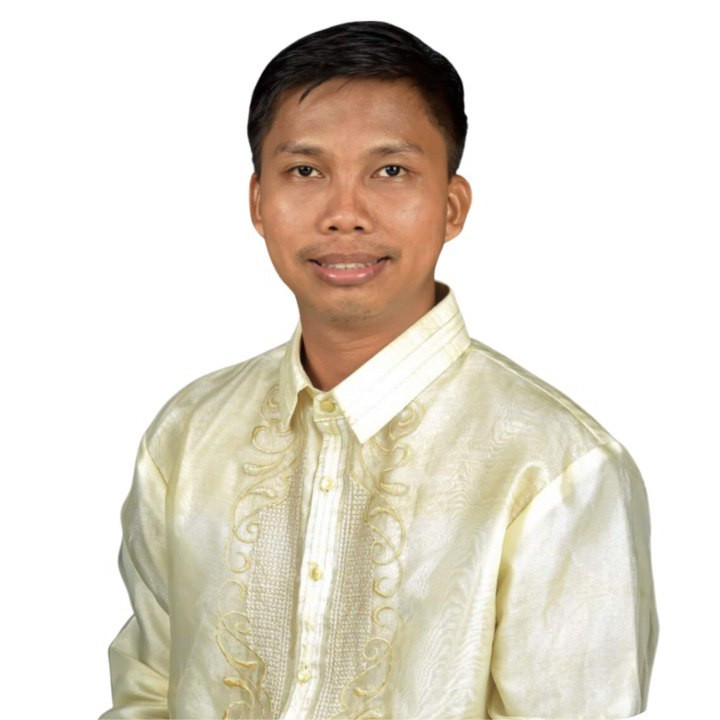
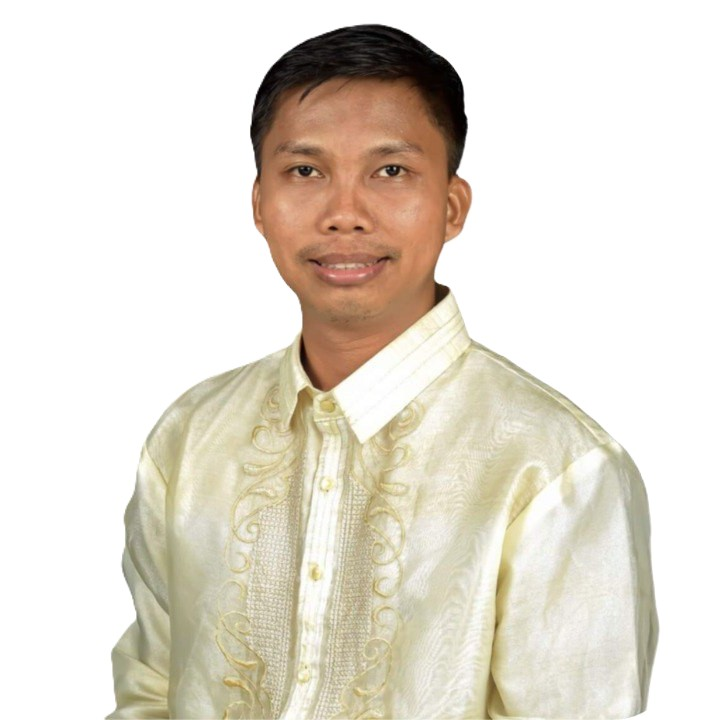
Refactor code structure for improved readability and maintainability

diff --git a/resources/js/components/header.tsx b/resources/js/components/header.tsx
@@ -71,6 +71,8 @@ export default function Header() {
         };
     }, [isSuggestionsVisible]);
 
+    
+    
     useEffect(() => {
         if (mobileMenuOpen) {
             document.body.style.overflow = 'hidden';
@@ -133,6 +135,7 @@ export default function Header() {
         resetSearchState();
     };
 
+    
     const resetSearchState = () => {
         setSearchQuery('');
         setSuggestions([]);
@@ -172,11 +175,10 @@ export default function Header() {
 
     if (isLoading) {
         return (
-            <div className="fixed top-0 left-0 right-0 z-40 bg-white dark:bg-gray-950 h-[52px]">
-                <div className="max-w-7xl mx-auto h-full flex items-center justify-between px-3 sm:px-4 md:px-6 lg:px-8">
-                    <div className="flex items-center space-x-2">
-                        <div className="h-8 w-8 rounded-lg bg-gray-100 dark:bg-gray-900 animate-pulse"></div>
-                        <div className="h-5 w-24 bg-gray-100 dark:bg-gray-900 rounded-md animate-pulse"></div>
+            <div className="fixed top-0 left-0 right-0 z-40 bg-white dark:bg-gray-950 h-[52px]">                <div className="max-w-7xl mx-auto h-full flex items-center justify-between px-3 sm:px-4 md:px-6 lg:px-8">
+                    <div className="flex items-center space-x-3">
+                        <div className="h-8 w-8 sm:h-10 sm:w-10 rounded-xl bg-gray-100 dark:bg-gray-900 animate-pulse"></div>
+                        <div className="h-6 w-28 bg-gray-100 dark:bg-gray-900 rounded-md animate-pulse"></div>
                     </div>
                     <div className="hidden lg:flex items-center justify-center flex-grow">
                         <div className="flex items-center space-x-1">
@@ -195,29 +197,25 @@ export default function Header() {
     }
 
     return (
-        <>
-            <header
+        <>            <header
                 className={`fixed top-0 left-0 right-0 z-40 w-full transition-all duration-200
                     ${scrolled
-                        ? "bg-white/80 dark:bg-gray-950/80 backdrop-blur-sm shadow-sm"
+                        ? "bg-white/80 dark:bg-gray-950/80 backdrop-blur-sm shadow-md"
                         : "bg-white dark:bg-gray-950"}`}
-            >
-                <div className="max-w-7xl mx-auto flex items-center justify-between px-3 sm:px-4 md:px-6 lg:px-8 h-[52px]">
+            ><div className="max-w-7xl mx-auto flex items-center justify-between px-3 sm:px-4 md:px-6 lg:px-8 h-[52px]">
                     <Link
                         href={route('home')}
-                        className="flex items-center space-x-2 group flex-shrink-0"
+                        className="flex items-center space-x-3 group flex-shrink-0"
                         aria-label="ProcuChain Home"
                     >
-                        <div className="h-8 w-8 rounded-lg overflow-hidden transform transition-transform duration-200 group-hover:scale-105">
+                        <div className="h-8 w-8 sm:h-10 sm:w-10 rounded-xl overflow-hidden transform transition-transform duration-200 group-hover:scale-105">
                             <AppLogoIcon className="w-full h-full object-cover" />
                         </div>
-                        <span className="font-medium text-base text-gray-900 dark:text-white">
+                        <span className="font-medium text-lg sm:text-xl text-gray-900 dark:text-white">
                             ProcuChain
                         </span>
-                    </Link>
-
-                    <nav className="hidden lg:flex items-center justify-center flex-grow" role="navigation" aria-label="Main navigation">
-                        <div className="flex items-center space-x-1">
+                    </Link>                    <nav className="hidden lg:flex items-center justify-center flex-grow" role="navigation" aria-label="Main navigation">
+                        <div className="flex items-center space-x-6 md:space-x-8">
                             <NavLink href={route('home')} active={route().current('home')}>Home</NavLink>
                             <NavLink href={route('about')} active={route().current('about')}>About</NavLink>
                             <NavLink href={route('team')} active={route().current('team')}>Team</NavLink>
@@ -292,12 +290,10 @@ export default function Header() {
                                     </ul>
                                 </div>
                             )}
-                        </div>
-
-                        {/* Theme Toggle */}
+                        </div>                        {/* Theme Toggle */}
                         <button
                             onClick={toggleDarkMode}
-                            className="hidden md:flex p-1.5 rounded-md text-gray-600 dark:text-gray-300 hover:bg-gray-100 dark:hover:bg-gray-900
+                            className="hidden md:flex p-1.5 rounded-md text-gray-600 dark:text-gray-400 hover:bg-gray-100 dark:hover:bg-gray-900
                                 focus:outline-none focus:ring-1 focus:ring-gray-400 transition-colors duration-200"
                             aria-label={isDarkMode ? 'Switch to light mode' : 'Switch to dark mode'}
                         >
@@ -305,47 +301,41 @@ export default function Header() {
                         </button>
 
                         {/* Auth Buttons */}
-                        <div className="hidden lg:flex items-center space-x-2">
-                            {auth.user ? (
+                        <div className="hidden lg:flex items-center space-x-2">                            {auth.user ? (
                                 <Link
                                     href={getDashboardRouteByRole(auth.user.role)}
                                     className="px-3 py-1.5 rounded-md text-sm font-medium text-white
-                                        bg-gray-900 hover:bg-gray-800 dark:bg-gray-900 dark:hover:bg-gray-800
+                                        bg-gray-900 hover:bg-gray-800 dark:bg-gray-800 dark:hover:bg-gray-700
                                         focus:outline-none focus:ring-1 focus:ring-gray-400
                                         transition-colors duration-200"
                                 >
                                     Dashboard
-                                </Link>
-                            ) : (
+                                </Link>) : (
                                 <Link
                                     href={route('login')}
                                     className="px-3 py-1.5 rounded-md text-sm font-medium text-white
-                                        bg-gray-900 hover:bg-gray-800 dark:bg-gray-900 dark:hover:bg-gray-800
+                                        bg-gray-900 hover:bg-gray-800 dark:bg-gray-800 dark:hover:bg-gray-700
                                         focus:outline-none focus:ring-1 focus:ring-gray-400
                                         transition-colors duration-200"
                                 >
                                     Sign In
                                 </Link>
                             )}
-                        </div>
-
-                        {/* Mobile Search Button */}
+                        </div>                        {/* Mobile Search Button */}
                         <button
                             onClick={() => {
                                 setIsMobileSearchExpanded(true);
                                 setTimeout(() => mobileSearchInputRef.current?.focus(), 100);
                             }}
-                            className="lg:hidden p-1.5 rounded-md text-gray-600 dark:text-gray-300 hover:bg-gray-100 dark:hover:bg-gray-900
+                            className="lg:hidden p-1.5 rounded-md text-gray-600 dark:text-gray-400 hover:bg-gray-100 dark:hover:bg-gray-900
                                 focus:outline-none focus:ring-1 focus:ring-gray-400"
                             aria-label="Open search"
                         >
                             <Search className="w-4 h-4" />
-                        </button>
-
-                        {/* Mobile Menu Button */}
+                        </button>{/* Mobile Menu Button */}
                         <button
                             onClick={() => setMobileMenuOpen(!mobileMenuOpen)}
-                            className="lg:hidden p-1.5 rounded-md text-gray-600 dark:text-gray-300 hover:bg-gray-100 dark:hover:bg-gray-900
+                            className="lg:hidden p-1.5 rounded-md text-gray-600 dark:text-gray-400 hover:bg-gray-100 dark:hover:bg-gray-900
                                 focus:outline-none focus:ring-1 focus:ring-gray-400"
                             aria-label={mobileMenuOpen ? 'Close menu' : 'Open menu'}
                             aria-expanded={mobileMenuOpen}
@@ -436,38 +426,33 @@ export default function Header() {
                         ${mobileMenuOpen ? 'translate-x-0' : 'translate-x-full'}`}
                     style={{ backgroundColor: 'var(--background, #ffffff)' }}
                 >
-                    <div className="flex items-center justify-between p-3 sm:p-4 md:p-6 lg:p-8 border-b border-gray-100 dark:border-gray-900">
-                        <Link
+                    <div className="flex items-center justify-between p-3 sm:p-4 md:p-6 lg:p-8 border-b border-gray-100 dark:border-gray-900">                        <Link
                             href={route('home')}
-                            className="flex items-center space-x-2"
+                            className="flex items-center space-x-3"
                             onClick={resetSearchState}
                         >
-                            <div className="h-8 w-8 sm:h-9 sm:w-9 rounded-lg overflow-hidden">
+                            <div className="h-8 w-8 sm:h-10 sm:w-10 rounded-xl overflow-hidden">
                                 <AppLogoIcon className="w-full h-full object-cover" />
                             </div>
-                            <span className="font-medium text-base sm:text-lg text-gray-900 dark:text-white">
+                            <span className="font-medium text-lg sm:text-xl text-gray-900 dark:text-white">
                                 ProcuChain
                             </span>
                         </Link>
-                        <div className="flex items-center space-x-2">
-                            <button
+                        <div className="flex items-center space-x-2">                            <button
                                 onClick={toggleDarkMode}
-                                className="p-1.5 sm:p-2 rounded-lg text-gray-700 dark:text-gray-300 hover:bg-gray-100 dark:hover:bg-gray-900"
+                                className="p-1.5 sm:p-2 rounded-lg text-gray-700 dark:text-gray-400 hover:bg-gray-100 dark:hover:bg-gray-900"
                                 aria-label={isDarkMode ? 'Switch to light mode' : 'Switch to dark mode'}
                             >
                                 {isDarkMode ? <Sun className="w-4 h-4 sm:w-5 sm:h-5" /> : <Moon className="w-4 h-4 sm:w-5 sm:h-5" />}
-                            </button>
-                            <button
+                            </button>                            <button
                                 onClick={() => setMobileMenuOpen(false)}
-                                className="p-1.5 sm:p-2 rounded-lg text-gray-700 dark:text-gray-300 hover:bg-gray-100 dark:hover:bg-gray-900"
+                                className="p-1.5 sm:p-2 rounded-lg text-gray-700 dark:text-gray-400 hover:bg-gray-100 dark:hover:bg-gray-900"
                                 aria-label="Close menu"
                             >
                                 <X size={18} />
                             </button>
                         </div>
-                    </div>
-
-                    <nav className="space-y-1 mt-4 px-3 sm:px-4 md:px-6 lg:px-8" role="navigation" aria-label="Mobile navigation">
+                    </div>                    <nav className="space-y-4 mt-6 px-3 sm:px-4 md:px-6 lg:px-8" role="navigation" aria-label="Mobile navigation">
                         <MobileNavLink href={route('home')} active={route().current('home')} onClick={resetSearchState}>Home</MobileNavLink>
                         <MobileNavLink href={route('about')} active={route().current('about')} onClick={resetSearchState}>About</MobileNavLink>
                         <MobileNavLink href={route('team')} active={route().current('team')} onClick={resetSearchState}>Team</MobileNavLink>
@@ -475,23 +460,21 @@ export default function Header() {
                     </nav>
 
                     <div className="mt-6 sm:mt-8 px-3 sm:px-4 md:px-6 lg:px-8">
-                        {auth.user ? (
-                            <Link
+                        {auth.user ? (                            <Link
                                 href={getDashboardRouteByRole(auth.user.role)}
                                 onClick={resetSearchState}
                                 className="block w-full py-2.5 sm:py-3 text-center font-medium text-white
-                                    bg-gray-900 hover:bg-gray-800 dark:bg-gray-900 dark:hover:bg-gray-800 rounded-md
+                                    bg-gray-900 hover:bg-gray-800 dark:bg-gray-800 dark:hover:bg-gray-700 rounded-md
                                     focus:outline-none focus:ring-1 focus:ring-gray-400
                                     transition-colors duration-200"
                             >
                                 Dashboard
                             </Link>
-                        ) : (
-                            <Link
+                        ) : (                            <Link
                                 href={route('login')}
                                 onClick={resetSearchState}
-                                className="block w-full py-2.5 sm:py-3 text-center font-medium
-                                    text-gray-700 dark:text-gray-300 hover:bg-gray-100 dark:hover:bg-gray-900 rounded-md
+                                className="block w-full py-2.5 sm:py-3 text-center font-medium 
+                                    text-white bg-gray-900 hover:bg-gray-800 dark:bg-gray-800 dark:hover:bg-gray-700 rounded-md
                                     focus:outline-none focus:ring-1 focus:ring-gray-400
                                     transition-colors duration-200"
                             >
@@ -514,14 +497,14 @@ interface NavLinkProps {
     children: React.ReactNode;
 }
 
-function NavLink({ href, active, children }: NavLinkProps) {
+function NavLink({ href, active, children }: NavLinkProps) {    
     return (
         <Link
             href={href}
-            className={`px-3 py-1.5 rounded-md text-sm font-medium transition-colors duration-200
+            className={`text-sm font-medium transition-colors duration-200
                 ${active
-                    ? 'text-gray-900 dark:text-white bg-gray-50 dark:bg-gray-900/50'
-                    : 'text-gray-600 dark:text-gray-300 hover:text-gray-900 dark:hover:text-white hover:bg-gray-50 dark:hover:bg-gray-900/50'}`}
+                    ? 'text-gray-900 dark:text-white'
+                    : 'text-gray-600 dark:text-gray-400 hover:text-gray-900 dark:hover:text-white'}`}
             aria-current={active ? 'page' : undefined}
         >
             {children}
@@ -541,10 +524,10 @@ function MobileNavLink({ href, active, children, onClick }: MobileNavLinkProps) 
         <Link
             href={href}
             onClick={onClick}
-            className={`block px-3 py-2 rounded-md text-base font-medium transition-colors duration-200
+            className={`block px-3 py-3 text-base font-medium transition-colors duration-200
                 ${active
-                    ? 'text-gray-900 dark:text-white bg-gray-100 dark:bg-gray-900'
-                    : 'text-gray-600 dark:text-gray-300 hover:text-gray-900 dark:hover:text-white hover:bg-gray-50 dark:hover:bg-gray-900/50'}`}
+                    ? 'text-gray-900 dark:text-white'
+                    : 'text-gray-600 dark:text-gray-400 hover:text-gray-900 dark:hover:text-white'}`}
             aria-current={active ? 'page' : undefined}
         >
             {children}

diff --git a/resources/js/pages/team.tsx b/resources/js/pages/team.tsx
@@ -42,7 +42,7 @@ export default function Team() {
             role: "Research Support / Assistant",
             bio: "Provided support to the research efforts, assisting in data gathering and documentation for the research paper.",
             responsibilities: ["Research Assistance", "Data Collection", "Documentation Support", "Reference Management"],
-            image: "https://images.unsplash.com/photo-1535713875002-d1d0cf377fde?fm=jpg&q=60&w=3000&ixlib=rb-4.1.0&ixid=M3wxMjA3fDB8MHxzZWFyY2h8NHx8bWFsZSUyMHByb2ZpbGV8ZW58MHx8MHx8fDA%3D",
+            image: "/images/team/adrian.jpg",
             github: "https://github.com/adriangupit",
             email: "adrian.gupit@minsu.edu.ph",
             facebook: "https://www.facebook.com/adrian.gupit.71",

diff --git a/tests/Feature/Auth/AuthenticationTest.php b/tests/Feature/Auth/AuthenticationTest.php
@@ -3,6 +3,7 @@
 use App\Models\User;
 use Illuminate\Support\Facades\Hash;
 use Illuminate\Support\Facades\Auth;
+use Illuminate\Support\Facades\Route;
 
 uses(\Illuminate\Foundation\Testing\RefreshDatabase::class);
 
@@ -12,29 +13,25 @@ test('login screen can be rendered', function () {
     $response->assertStatus(200);
 });
 
-test('users can authenticate using the login screen and are redirected to correct dashboard', function () {
-    // Test for BAC-Secretariat role
-    $secretariatUser = User::factory()->create(['role' => 'bac_secretariat']);
-    
-    // Test if role-based redirection works correctly
-    $this->actingAs($secretariatUser);
-    $response = $this->get(route('home'));
-    $response->assertRedirect(route('bac-secretariat.dashboard'));
-    Auth::logout();
+test('users can authenticate using the login screen and are redirected to correct dashboard', function (string $role, string $expectedRedirectRoute) {
+    $user = User::factory()->create([
+        'role' => $role,
+        // 'password' => Hash::make('password'), // Already handled by factory
+    ]);
 
-    // Test for BAC-Chairman role
-    $chairmanUser = User::factory()->create(['role' => 'bac_chairman']);
-    $this->actingAs($chairmanUser);
-    $response = $this->get(route('home'));
-    $response->assertRedirect(route('bac-chairman.dashboard'));
-    Auth::logout();
+    $response = $this->post('/login', [
+        'email' => $user->email,
+        'password' => 'password', // Default password from factory
+    ]);
 
-    // Test for Hope role
-    $hopeUser = User::factory()->create(['role' => 'hope']);
-    $this->actingAs($hopeUser);
-    $response = $this->get(route('home'));
-    $response->assertRedirect(route('hope.dashboard'));
-});
+    $this->assertAuthenticatedAs($user);
+    $response->assertRedirect(route($expectedRedirectRoute));
+
+})->with([
+    ['bac_secretariat', 'bac-secretariat.dashboard'],
+    ['bac_chairman', 'bac-chairman.dashboard'],
+    ['hope', 'hope.dashboard'],
+]);
 
 test('users can not authenticate with invalid password', function () {
     $user = User::factory()->create([

diff --git a/routes/web.php b/routes/web.php
@@ -11,21 +11,7 @@ use Illuminate\Support\Facades\Auth;
 use Illuminate\Support\Facades\Route;
 use Inertia\Inertia;
 
-Route::get('/', function () {
-    // If user is authenticated, redirect based on role
-    if (Auth::check()) {
-        $user = Auth::user();
-        
-        switch ($user->role) {
-            case 'bac_secretariat':
-                return redirect()->intended(route('bac-secretariat.dashboard'));
-            case 'bac_chairman':
-                return redirect()->intended(route('bac-chairman.dashboard'));
-            case 'hope':
-                return redirect()->intended(route('hope.dashboard'));
-        }
-    }
-    
+Route::get('/', function () {    
     return Inertia::render('home');
 })->name('home');
 
